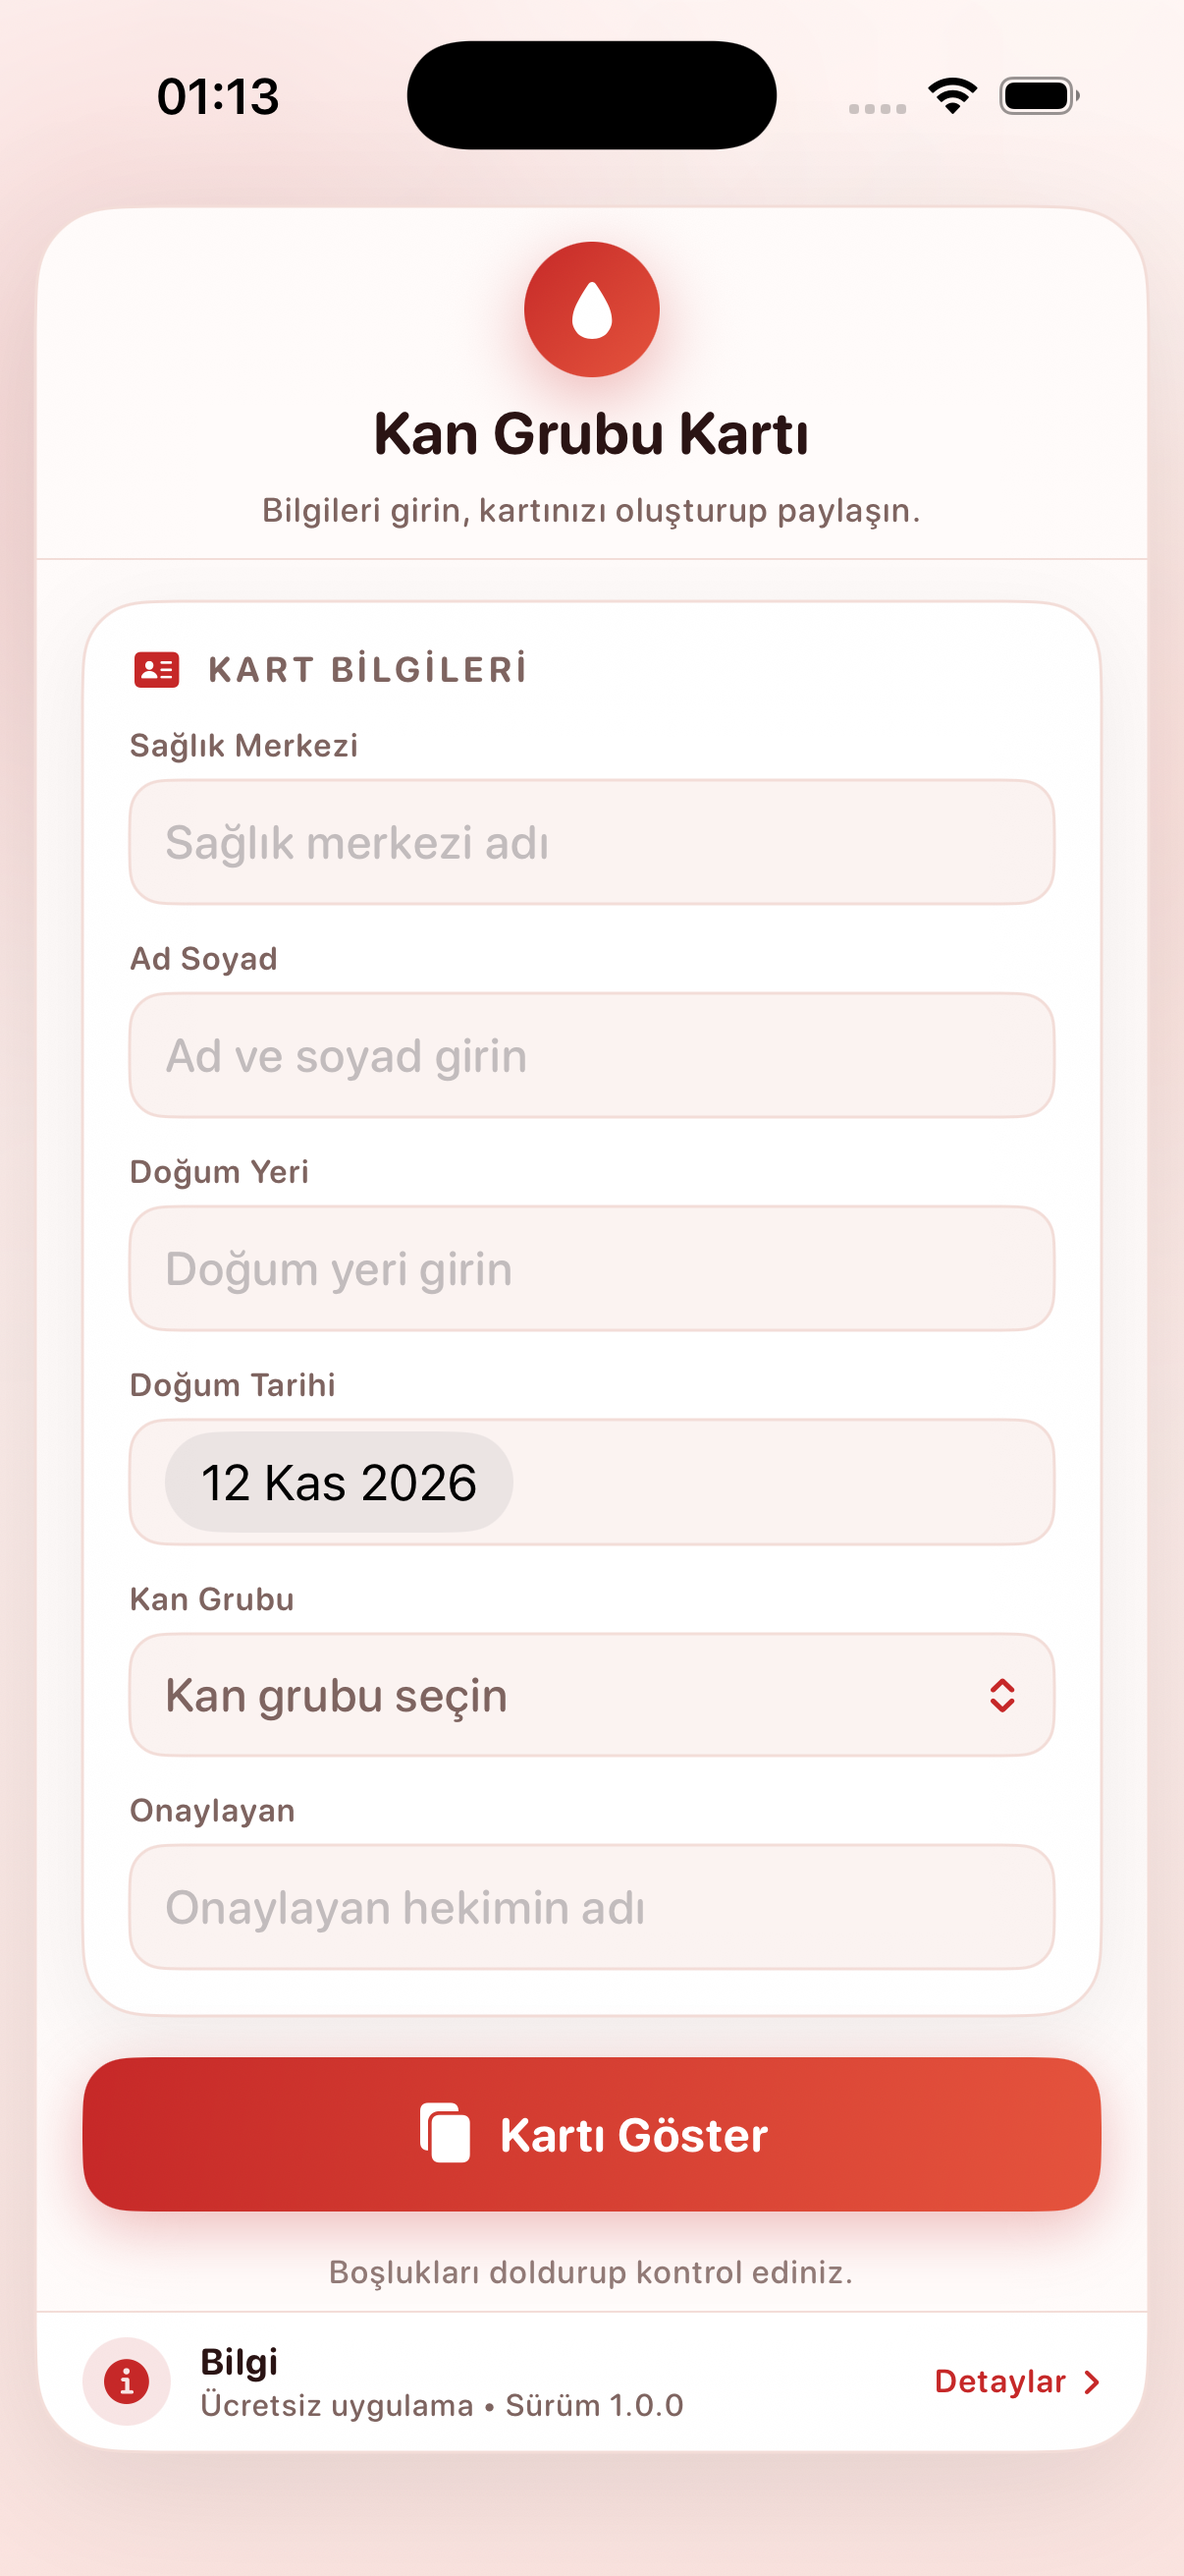
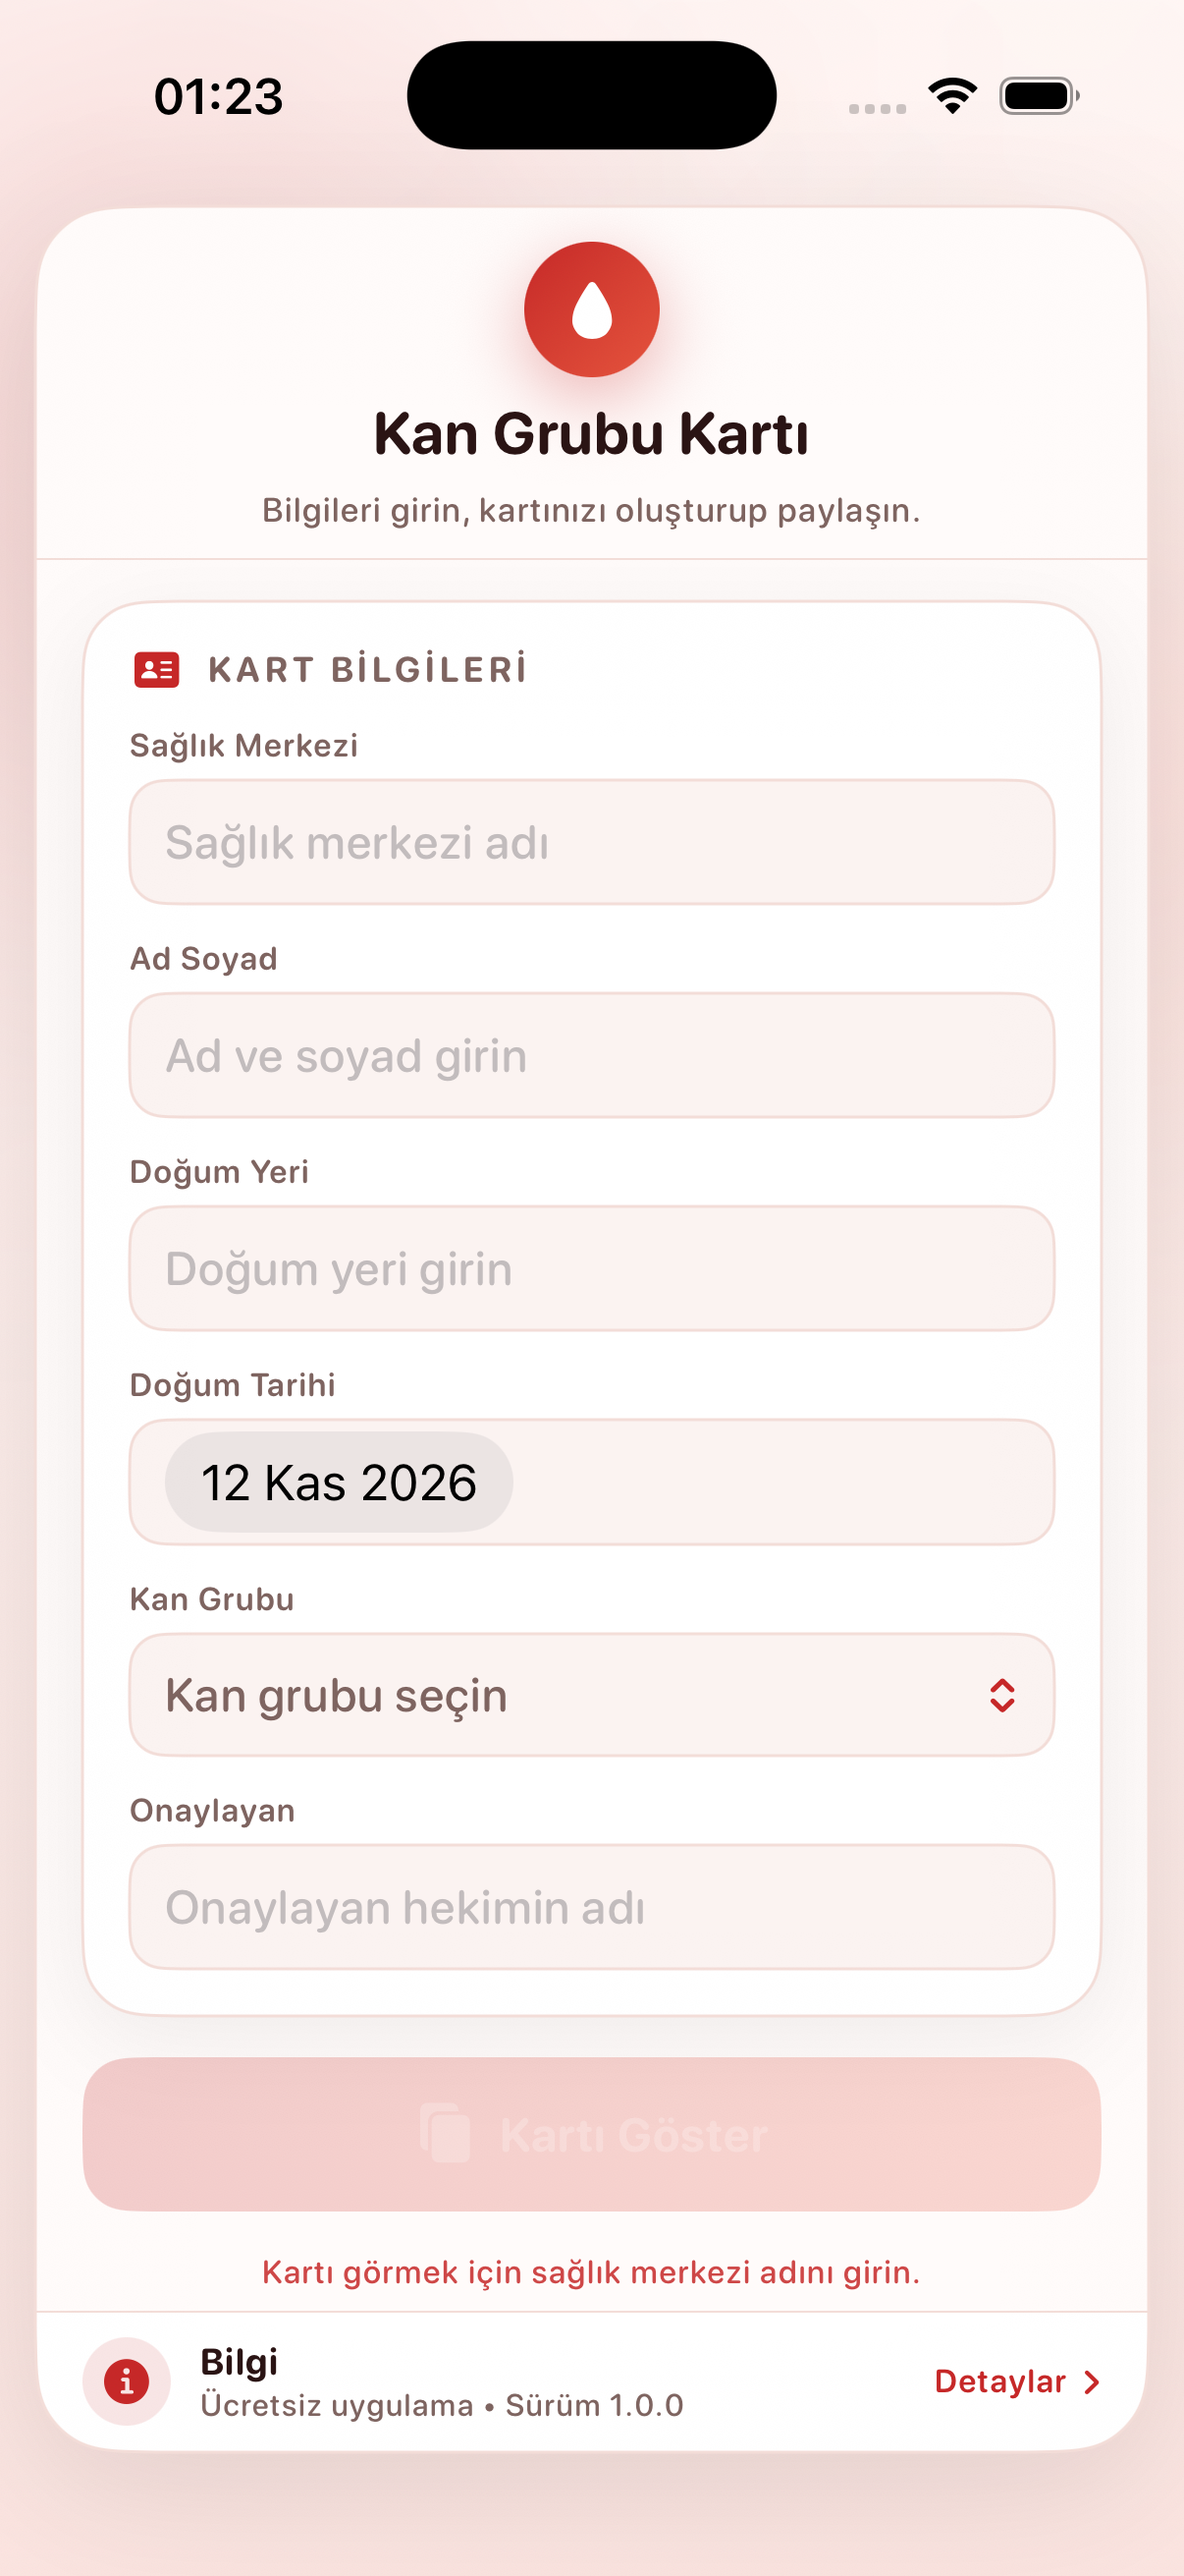
Sağlık merkezi zorunlu: kart butonu boşken pasif
- 'Kartı Göster' sağlık merkezi dolmadan devre dışı
- Buton %45 opaklıkta, gölgesiz; uyarı metni gösteriliyor
- 5 dilde kg.merkezGerekli eklendi (de tek satır)
- README/README.tr ve ekran görüntüleri güncellendi

Changed region(s): [[0.0614, 0.7723, 0.9511, 0.8959], [0.1227, 0.0309, 0.2454, 0.0618]]

diff --git a/Kan Grubu Kartı/ContentView.swift b/Kan Grubu Kartı/ContentView.swift
@@ -225,6 +225,10 @@ struct ContentView: View {
         .shadow(color: Color.black.opacity(0.06), radius: 16, x: 0, y: 8)
     }
 
+    private var kartHazir: Bool {
+        !saglikMerkezi.trimmingCharacters(in: .whitespacesAndNewlines).isEmpty
+    }
+
     private var kartButonu: some View {
         NavigationLink {
             ikinciSayfa(name: adSoyad,
@@ -244,15 +248,19 @@ struct ContentView: View {
             .padding(.vertical, 14)
             .background(Tema.anaGecis)
             .clipShape(RoundedRectangle(cornerRadius: 16, style: .continuous))
-            .shadow(color: Tema.anaRenk.opacity(0.30), radius: 10, x: 0, y: 6)
+            .shadow(color: Tema.anaRenk.opacity(kartHazir ? 0.30 : 0),
+                    radius: 10, x: 0, y: 6)
+            .opacity(kartHazir ? 1 : 0.45)
         }
         .buttonStyle(.plain)
+        .disabled(!kartHazir)
     }
 
     private var ipucu: some View {
-        Text(dil.metin("kg.ipucu"))
+        Text(dil.metin(kartHazir ? "kg.ipucu" : "kg.merkezGerekli"))
             .font(.system(size: 11, weight: .medium, design: .rounded))
-            .foregroundStyle(Tema.ikincil.opacity(0.85))
+            .foregroundStyle(kartHazir ? Tema.ikincil.opacity(0.85) : Tema.anaRenk.opacity(0.85))
+            .multilineTextAlignment(.center)
             .frame(maxWidth: .infinity)
     }
 }

diff --git a/README.tr.md b/README.tr.md
@@ -97,7 +97,7 @@ Storyboard veya görsel değişikliği gerekmez.
 
 Bu belgedeki buton adları Türkçe gösterilmiştir; uygulama seçili dilde aynı terimleri kullanır.
 
-1. Uygulamayı açın ve **Sağlık Merkezi**, **Ad Soyad**, **Doğum Yeri**, **Doğum Tarihi**, **Kan Grubu** ve **Onaylayan** alanlarını doldurun.
+1. Uygulamayı açın ve **Sağlık Merkezi**, **Ad Soyad**, **Doğum Yeri**, **Doğum Tarihi**, **Kan Grubu** ve **Onaylayan** alanlarını doldurun. **Sağlık Merkezi** zorunludur: doldurulana kadar **Kartı Göster** pasif kalır ve kısa bir uyarı gösterilir.
 2. **Kartı Göster** butonuna dokunun. Kart önizlemesi ekranın ortasında görünür.
 3. **Kartı Paylaş veya Kaydet** butonuna dokunun.
 4. Paylaşım sayfasında **Görseli Kaydet** ile Fotoğraflar'a kaydedin veya Mesajlar, Mail ya da AirDrop ile gönderin.

diff --git a/README.md b/README.md
@@ -97,7 +97,7 @@ No storyboard or asset changes are needed.
 
 Button names in this README are shown in Turkish; the app uses the same terms in the selected language.
 
-1. Open the app and fill in **Sağlık Merkezi**, **Ad Soyad**, **Doğum Yeri**, **Doğum Tarihi**, **Kan Grubu** and **Onaylayan**.
+1. Open the app and fill in **Sağlık Merkezi**, **Ad Soyad**, **Doğum Yeri**, **Doğum Tarihi**, **Kan Grubu** and **Onaylayan**. **Sağlık Merkezi** is required: **Kartı Göster** stays disabled and a short hint is shown until it is filled in.
 2. Tap **Kartı Göster**. The card preview appears, centered on the screen.
 3. Tap **Kartı Paylaş veya Kaydet**.
 4. In the share sheet choose **Save Image** to keep it in Photos, or send it via Messages, Mail or AirDrop.
